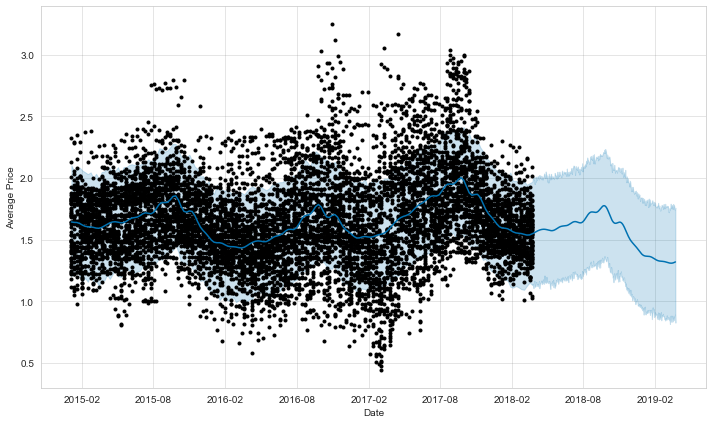
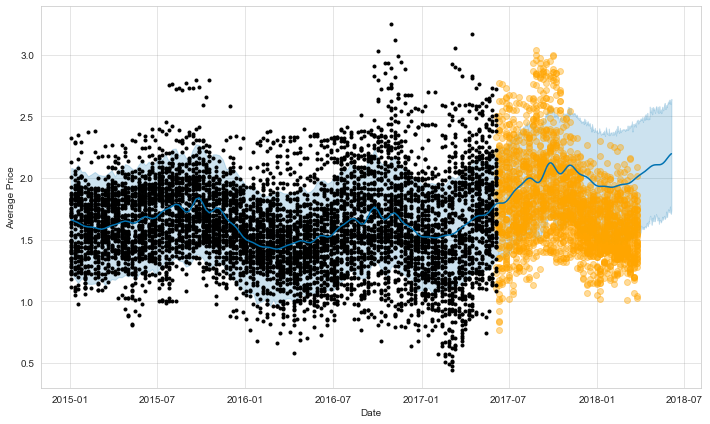
more on the prophet predictions

diff --git a/_posts/2022-01-01-avocados.md b/_posts/2022-01-01-avocados.md
@@ -16,6 +16,8 @@ import numpy as np
 import matplotlib.pylab as plt
 import random
 import seaborn as sns
+import warnings
+warnings.simplefilter("ignore")
 ```
 
 
@@ -192,7 +194,13 @@ sns.pairplot(df, x_vars=['Small Bags', 'Large Bags', 'XLarge Bags'],
     
 
 
-We now turn to the Prophet package, which is used to forecast a curve $y(t)$ over time. The dataframe must have two columns: `ds` contains the time and `y` contains the value we want to forecast. As ww have seen that there is a strong dependency on the type, we first filter out the conventional avocados and focus on the organic ones.
+We now turn to the Prophet package, which is used to forecast a curve $y(t)$ over time. The assumption, which is classical in time series analysis, is that $y(t)$ can be written as the sum of three components,
+$$
+y(t) = S(t) + T(t) + R(t), 
+$$
+where $S(t)$ is the seasonality component, $T(t)$ is the trend-cycle component (or just trend), and $R(t)$ is the residual part, which cannot be explained by the two previous terms. For a in-depth description, see [Forecasting, Principles and Practice](https://otexts.com/fpp3/), by R. Hyndman and G. Athanasopoulos.
+
+Prophet follows the classical pattern of having a `fit()` and a `predict()` methods. The method `fit()` takes in input a dataframe that must have two columns: `ds` contains the time and `y` contains the value we want to forecast. As we have seen that there is a strong dependency on the avocado type, we first filter out the conventional avocados and focus on the organic ones.
 
 
 ```python
@@ -295,14 +303,29 @@ df_prophet
 from prophet import Prophet
 ```
 
-    Importing plotly failed. Interactive plots will not work.
+We divide the data into a first block (75%) for training and a second block for testing (25%).
+
+
+```python
+n_train = int(0.75 * len(df_prophet))
+df_train, df_test = df_prophet[:n_train], df_prophet[n_train:]
+print(f"Using {len(df_train)} entries for training and {len(df_test)} for testing")
+```
+
+    Using 6842 entries for training and 2281 for testing
     
 
 
 ```python
 m = Prophet()
-m.fit(df_prophet);
+m.fit(df_train);
 ```
+
+    INFO:prophet:Disabling weekly seasonality. Run prophet with weekly_seasonality=True to override this.
+    INFO:prophet:Disabling daily seasonality. Run prophet with daily_seasonality=True to override this.
+    
+
+The model has been trained, so we can compute the predictions for the future 365 days from the last day of the training test. We want to compare those predictions (in blue) with the actual data (in orange).
 
 
 ```python
@@ -313,7 +336,15 @@ forecast = m.predict(future)
 
 ```python
 figure = m.plot(forecast, xlabel='Date', ylabel='Average Price')
+plt.scatter(df_test['ds'], df_test['y'], alpha=0.4, color='orange')
 ```
+
+
+
+
+    <matplotlib.collections.PathCollection at 0x21d19c8e3a0>
+
+
 
 
     
@@ -327,34 +358,9 @@ figure = m.plot_components(forecast)
 ```
 
 
-
-
     
 ![png](/assets/images/avocados/avocados-9.png)
     
 
 
-
-```python
-
-```
-
-
-```python
-
-```
-
-
-```python
-
-```
-
-
-```python
-
-```
-
-
-```python
-
-```
+Prophet plots the trend and the yearly seasonality, since weekly and daily seasonality has been disabled. The trend shows the average price going down, while seasonality indicates higher prices in October and low ones in January to March. The results are not too bad for the first period immediately after the end of the training data, while they diverge a bit after that, seeminingly missing the trend.
